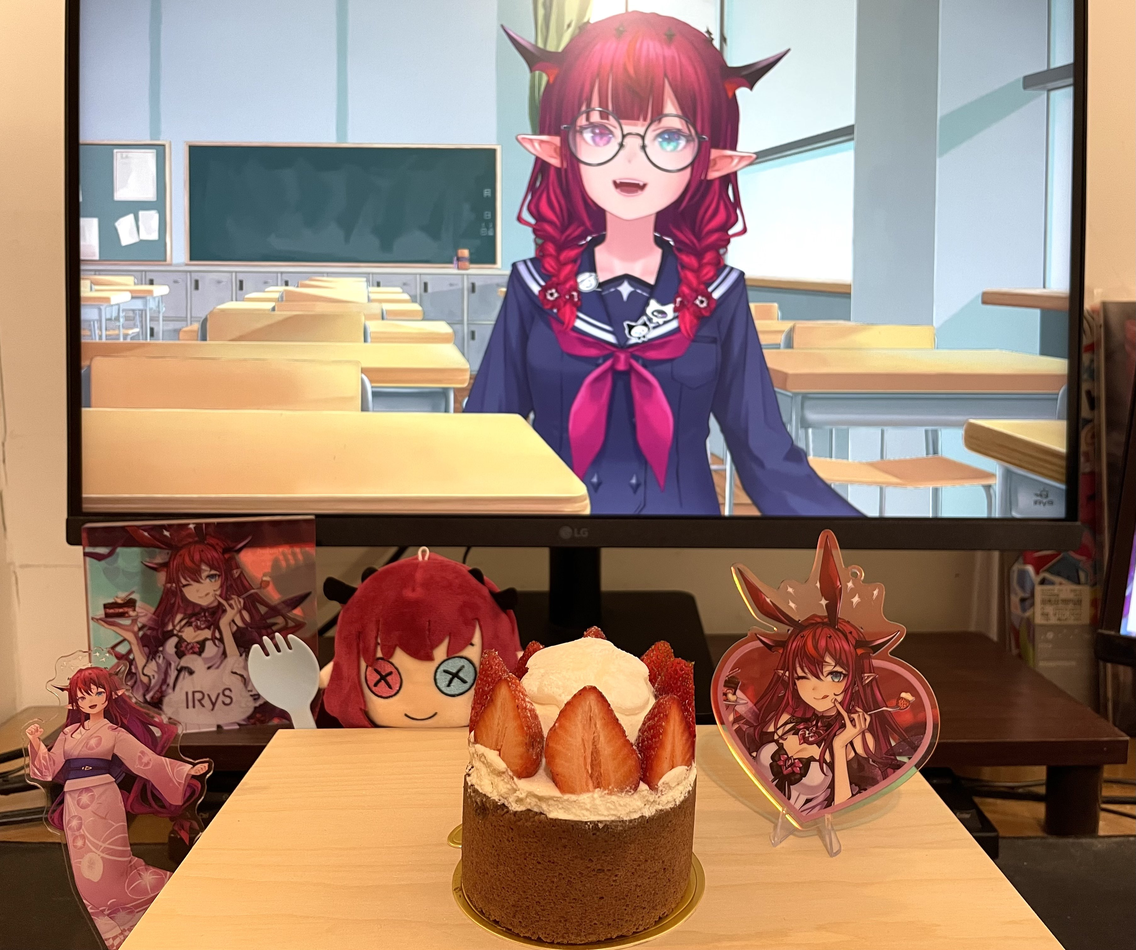
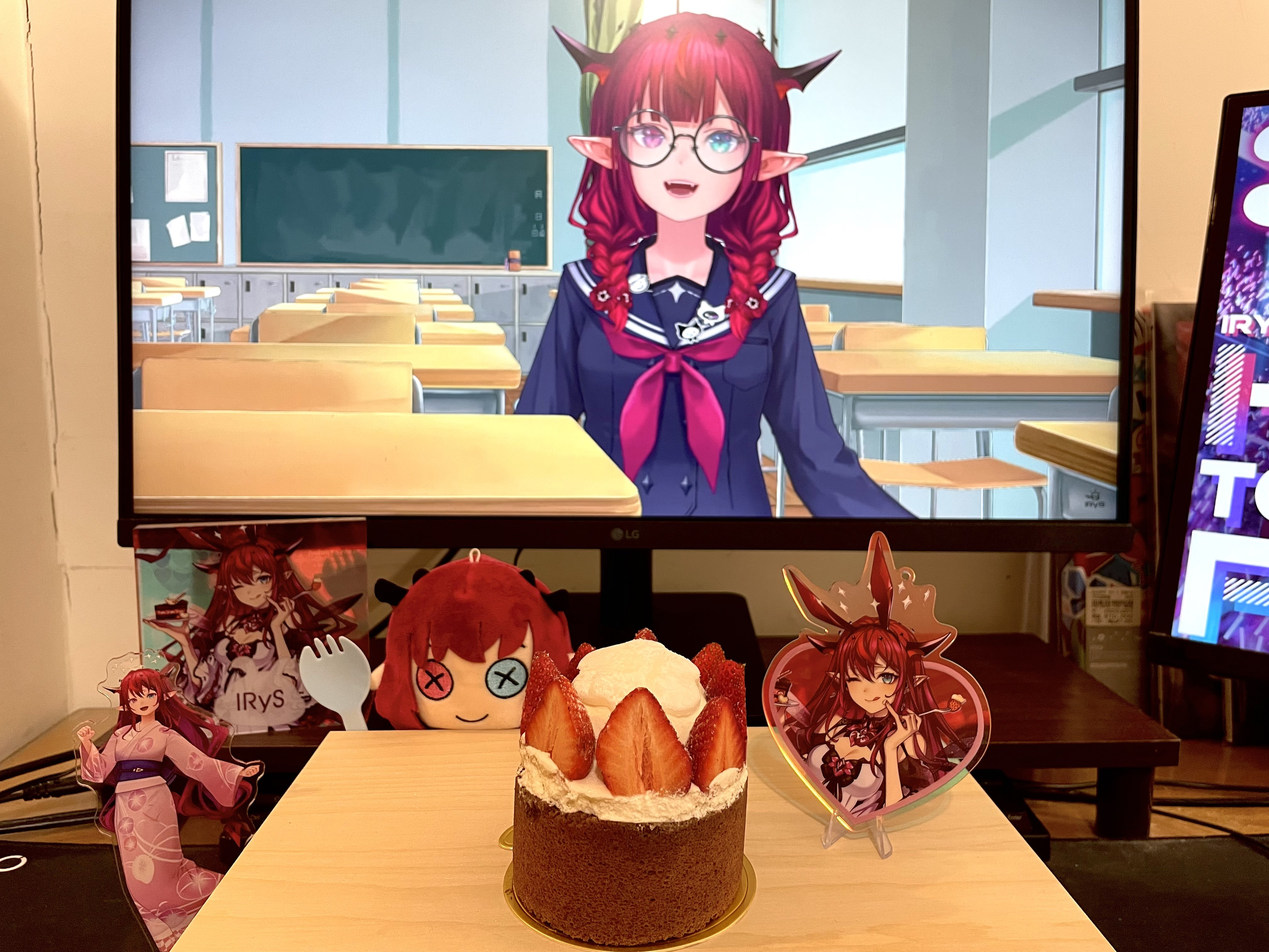
Some Text edited/Photo resized/Kuma Zac card added
Card title amended

照片修正：月下
にしき
蠔哥

diff --git a/Pages/2024_IRyS_Birthday_Cake_Project/2024_IRyS_Birthday_Cake_Project.html b/Pages/2024_IRyS_Birthday_Cake_Project/2024_IRyS_Birthday_Cake_Project.html
@@ -77,8 +77,8 @@
                 Cake</a>
         </div>
         <div class="mobile-menu w3-right w3-bar-item">
-            <img class="nav-icon" id="menu-open" src="menu-bar.png" />
-            <img class="nav-icon" id="menu-close" src="close.png" />
+            <img class="nav-icon" id="menu-open" src="../../menu-bar.png" />
+            <img class="nav-icon" id="menu-close" src="../../close.png" />
             <div class="popup-menu" id="modal">
                 <a href="AnniversaRyS.html">AnniversaRyS</a>
                 <p class="separate-dots"> ． </p>
@@ -97,9 +97,12 @@
 
     <main>
         <section class="text-center container">
+            <div class="headerImg">
+
+            </div>
             <img src="assets/2024_IRyS_Birthday_Cake_Project_Header Picture(cropped).png" class="img-fluid"
                 alt="Happy 2024_IRyS_Birthday_Cake_Project">
-            <p class="lead" style="float: inline-end;">Happy Birthday IRyS!
+            <p class="lead fs-4">Happy Birthday IRyS!
                 This time, we've gathered cake photos and heartfelt blesssings from fans, along with a recorded "Happy
                 Birthday" message.
                 Please remember to click the button to listen!
@@ -874,7 +877,7 @@
                                 <div class="row">
                                     <!-- Card Title/ IRyStocrat Name -->
                                     <div class="col-7">
-                                        <h5 class="card-title" style="margin-top: 0.3em;">Evan W.-エヴァン-
+                                        <h5 class="card-title" style="margin-top: 0.3em;">Evan W.
                                         </h5>
                                     </div>
 
@@ -1091,7 +1094,7 @@
 
                                 <div class="row">
                                     <!-- Card Title/ IRyStocrat Name -->
-                                    <div class="col-7">
+                                    <div class="col-9">
                                         <h5 class="card-title" style="margin-top: 0.3em;">Douglas 'Anvil' Tan
                                         </h5>
                                     </div>
@@ -1122,7 +1125,7 @@
 
                                 <div class="row">
                                     <!-- Card Title/ IRyStocrat Name -->
-                                    <div class="col-9">
+                                    <div class="col-12">
                                         <h5 class="card-title" style="margin-top: 0.3em;">Greentea on purple purple
                                             block
                                         </h5>
@@ -1130,7 +1133,7 @@
 
                                     <!-- IRyStocrat Blessing Audio -->
                                     <!-- No Recording -->
-                                    <p class="col-1"> </p>
+
                                 </div>
 
                                 <!-- Card content -->
@@ -1491,13 +1494,13 @@
                     <!-- 月下ノナナイロ酢兎 -->
                     <div class="col">
                         <div class="card shadow">
-                            <img class="card-img-top" src="assets/Cake photos/IMG_2510 - 月下ノ七色酢兎.jpeg" alt="">
+                            <img class="card-img-top" src="assets/Cake photos/IMG_2510 - 月下ノ七色酢兎.jpg" alt="">
 
                             <div class="card-body">
 
                                 <div class="row">
                                     <!-- Card Title/ IRyStocrat Name -->
-                                    <div class="col-7">
+                                    <div class="col-9">
                                         <h5 class="card-title" style="margin-top: 0.3em;">月下ノナナイロ酢兎
                                         </h5>
                                     </div>
@@ -1517,7 +1520,76 @@
                         </div>
                     </div>
 
+                    <!-- Zac Tang -->
+                    <div class="col">
+                        <div class="card shadow">
+                            <img class="card-img-top" src="assets/Cake photos/IMG_7547_Zac Tang.png" alt="">
 
+                            <div class="card-body">
+
+                                <div class="row">
+                                    <!-- Card Title/ IRyStocrat Name -->
+                                    <div class="col-7">
+                                        <h5 class="card-title" style="margin-top: 0.3em;">Zac Tang
+                                        </h5>
+                                    </div>
+
+                                    <!-- IRyStocrat Blessing Audio -->
+
+                                    <p class="col-1"> </p>
+                                </div>
+
+                                <!-- Card content -->
+                                <p class="card-text">Happy birthday, my oshi!
+                                    People always say that happy days pass by especially quickly.
+                                    Unconsciously, it's already your third birthday.
+                                    I will continue to support you and spend even more happy days together with you.</p>
+                                <div class="d-flex justify-content-between align-items-center">
+                                </div>
+                            </div>
+                        </div>
+                    </div>
+
+
+                    <!-- Kuma -->
+                    <div class="col">
+                        <div class="card shadow">
+                            <img class="card-img-top" src="assets/Cake photos/IMG_7556_Kuma.png" alt="">
+
+                            <div class="card-body">
+
+                                <div class="row">
+                                    <!-- Card Title/ IRyStocrat Name -->
+                                    <div class="col-7">
+                                        <h5 class="card-title" style="margin-top: 0.3em;">Kuma
+                                        </h5>
+                                    </div>
+
+                                    <!-- IRyStocrat Blessing Audio -->
+                                    <div type="button" class="col-4 btn btn-danger shadow-sm"
+                                        style="padding: 1%; background-color: rgb(184, 87, 152); border-color: rgb(108, 4, 73);"
+                                        onmouseover="this.style.backgroundColor='rgb(240, 95, 192)'"
+                                        onmouseout="this.style.backgroundColor='rgb(184, 87, 152)';" ;
+                                        onclick=" playSound('assets/HBD_Recording/Kuma.m4a')">
+                                        <div class="" style="display: flex;">
+                                            <h5 class="blessingBtnText">My Bday Blessing
+                                            </h5>
+                                            <img class="blessingBtnImg" src="assets/volume-up-fill.svg" alt="">
+                                        </div>
+                                    </div>
+                                    <p class="col-1"> </p>
+                                </div>
+
+                                <!-- Card content -->
+                                <p class="card-text">Happy birthday, my oshi!
+                                    People always say that happy days pass by especially quickly.
+                                    Unconsciously, it's already your third birthday.
+                                    I will continue to support you and spend even more happy days together with you.</p>
+                                <div class="d-flex justify-content-between align-items-center">
+                                </div>
+                            </div>
+                        </div>
+                    </div>
 
 
 

diff --git a/Pages/2024_IRyS_Birthday_Cake_Project/2024_IRyS_Birthday_Cake_Project.css b/Pages/2024_IRyS_Birthday_Cake_Project/2024_IRyS_Birthday_Cake_Project.css
@@ -8,15 +8,26 @@
     text-wrap:nowrap;
     width: 3em;
     height: 7em;
-    
     text-align: center;
-    writing-mode: vertical-rl
+    writing-mode: vertical-rl;
+    z-index: 1;
+  }
+
+  @media screen {
+    
   }
   
   /* #scrollButton:hover {
     
-  } */
-  
+  } */.headerImg {
+
+    background-image: none;
+
+
+  }
+
+
+
   #background-music {
     position: absolute;
     top: 0;
@@ -27,13 +38,12 @@
   .cardHover :hover {
     margin-left: 18px;
     margin-top: 18px;
-
   }
 
 
-.blessingBtn{
-    
-}
+/* .blessingBtn{
+
+} */
 
 .blessingBtnText {
     margin:0; padding: 2%; font-size: x-small;
